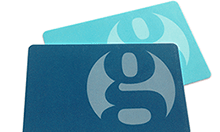
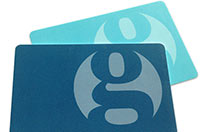
Update homepage feature panel images

diff --git a/frontend/app/views/home.scala.html b/frontend/app/views/home.scala.html
@@ -2,6 +2,7 @@
 
 @main("Home Page a-b", noIndex=true) {
 
+    @* ===== Slideshow ===== *@
     <section class="slideshow js-slideshow" data-slideshow-duration="5000">
         @fragments.media.slideshowItem("images/noAssetHash/home/hero/man_aud_{width}{pixel_ratio}.jpg",
             "Guardian Live with Russell Brand", true)
@@ -17,16 +18,18 @@
             "Guardian Live event: Vivienne Westwood")
     </section>
 
+    @* ===== Introduction ===== *@
     <section class="block-description block-description--right block-description--pull">
         <h1 class="text-feature">We're bringing the Guardian to life through live events and meet-ups. <a class="text-highlight" href="/join">Join and be part of the conversations that matter.</a></h1>
         <a class="action action--no-bottom-margin" href="/join">Join today</a>
     </section>
 
+    @* ===== Feature panels ===== *@
     <section class="page-content">
         <div class="section-features">
             <ul class="grid grid--bordered grid--4up">
                 <li class="grid__item">
-                    @fragments.page.featurePanel("images/noAssetHash/home/promo/whats-included-{width}{pixel_ratio}.png",
+                    @fragments.page.featurePanel("images/noAssetHash/home/promo/whats-included-{width}{pixel_ratio}.jpg",
                         "Discover what's included with Guardian Membership", "/about")
                 </li>
                 <li class="grid__item">
@@ -38,7 +41,7 @@
                         "Compare the three tiers of Guardian Membership", "/join")
                 </li>
                 <li class="grid__item">
-                    @fragments.page.featurePanel("images/noAssetHash/home/promo/become_patron_{width}{pixel_ratio}.jpg",
+                    @fragments.page.featurePanel("images/noAssetHash/home/promo/become-patron-{width}{pixel_ratio}.jpg",
                         "Become a Patron and support the Guardian's future", "/patrons")
                 </li>
             </ul>
